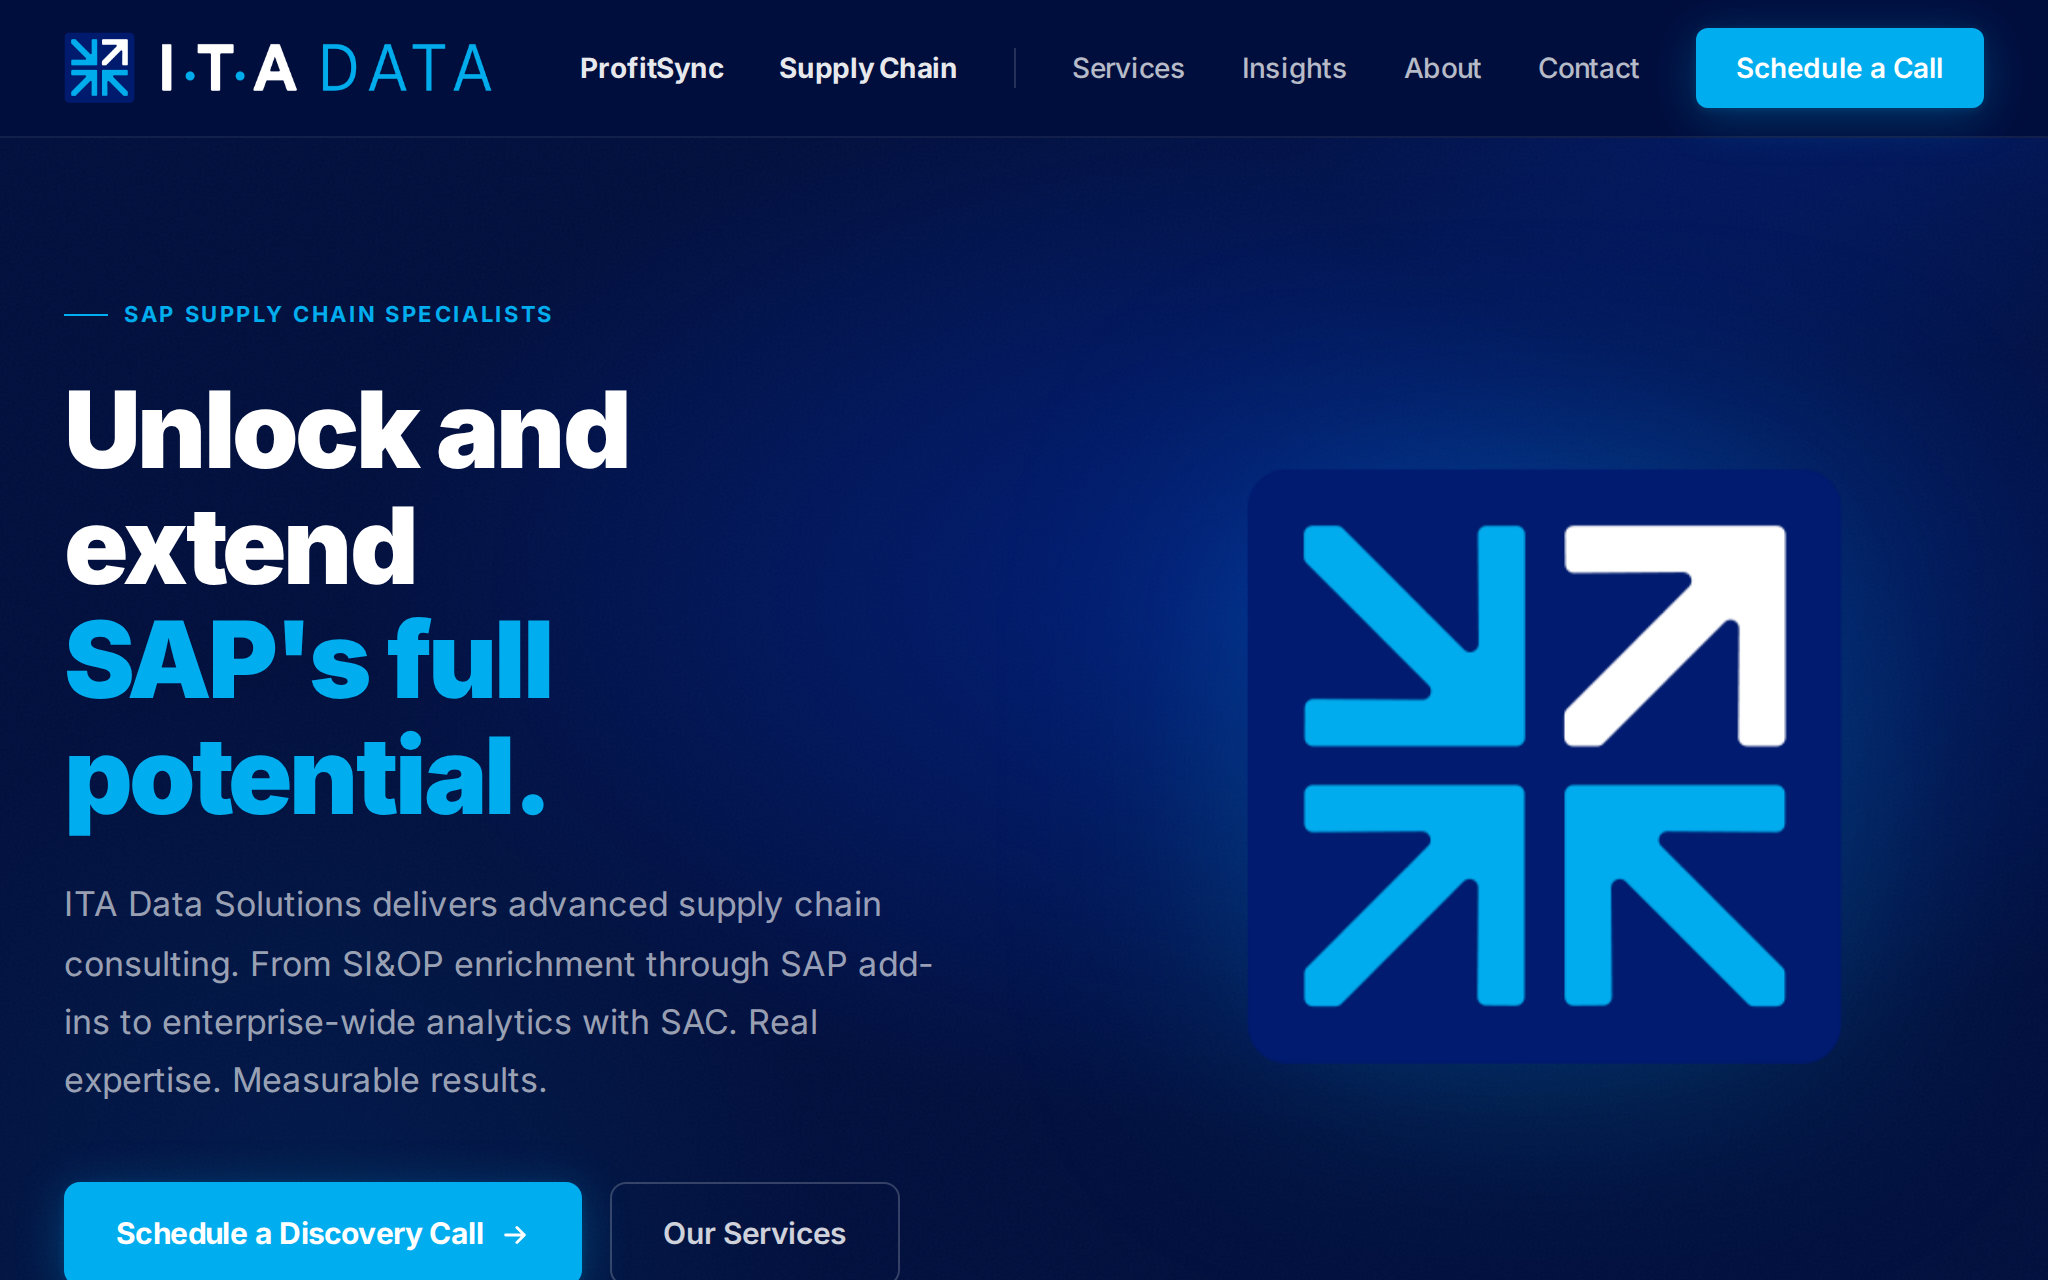
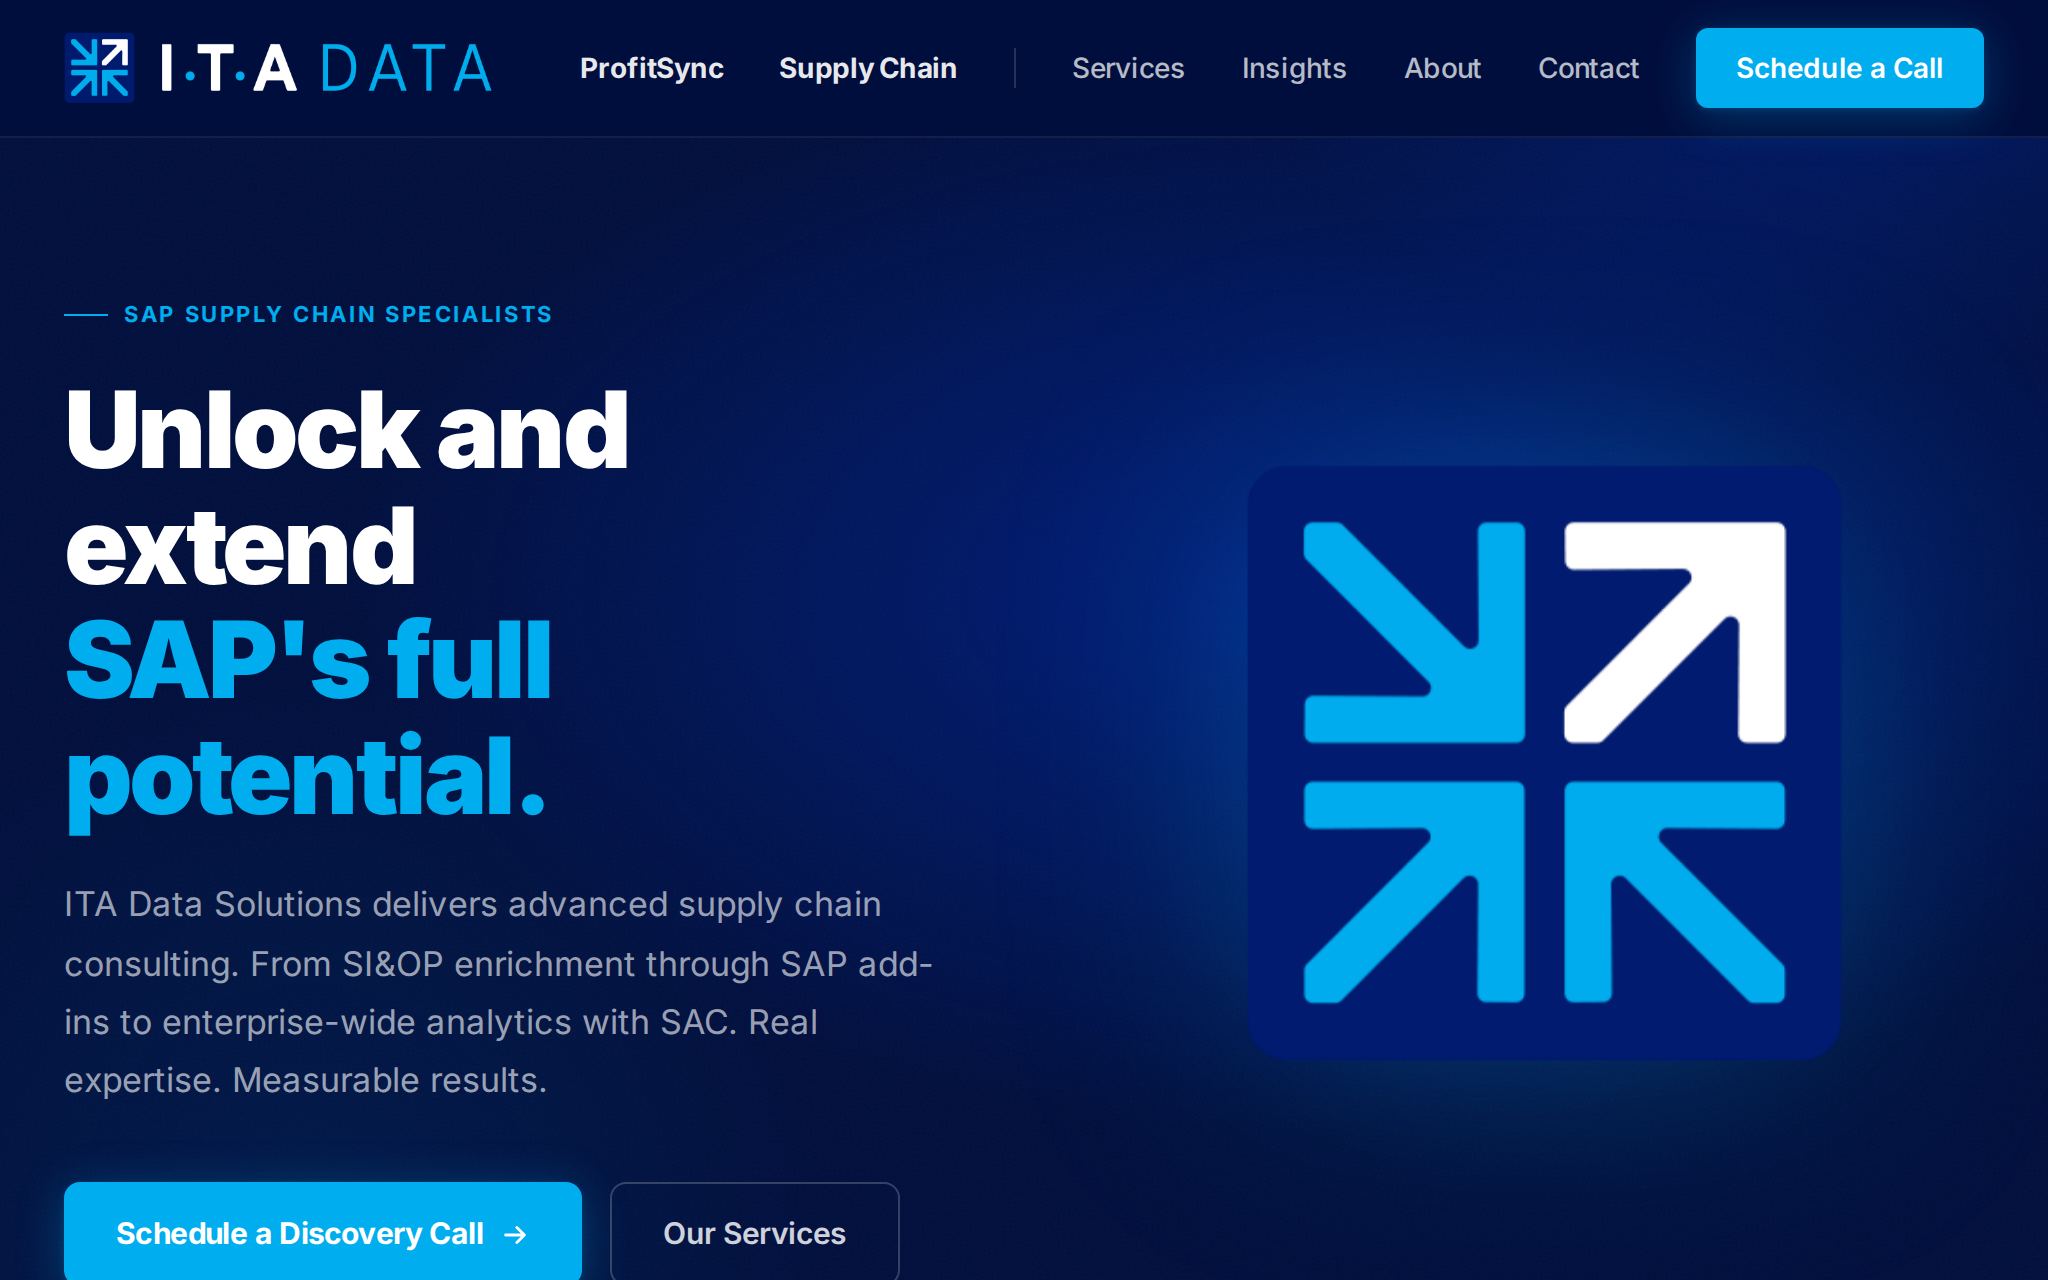
Point itadata showcase card at itadata.com
The itadata.com cutover is live (see clients/itadata-website/docs/2026-07-29-migration-next-steps.md), so the showcase card now
links to the new domain instead of the interim itadata.site. Re-ran
npm run shots to refresh the card screenshot from the live .com site.

diff --git a/src/config/site.js b/src/config/site.js
@@ -32,14 +32,11 @@ export const siteConfig = {
       chips: ['Mowing Schedule', 'Sanity CMS', 'Estimate Form'],
     },
     {
-      // TODO(dreux): after the itadata.com cutover completes, swap `domain` and
-      // `url` to itadata.com and re-run `npm run shots`. Do NOT swap early —
-      // .com still serves the client's old, pre-Foundry site.
       slug: 'itadata',
       name: 'ITA Data Solutions',
       industry: 'SAP Consulting',
-      domain: 'itadata.site',
-      url: 'https://itadata.site',
+      domain: 'itadata.com',
+      url: 'https://itadata.com',
       blurb: 'Enterprise B2B site with gated white papers and a discovery-call funnel.',
       chips: ['White Paper Library', 'Sanity CMS', 'Lead Capture'],
     },
